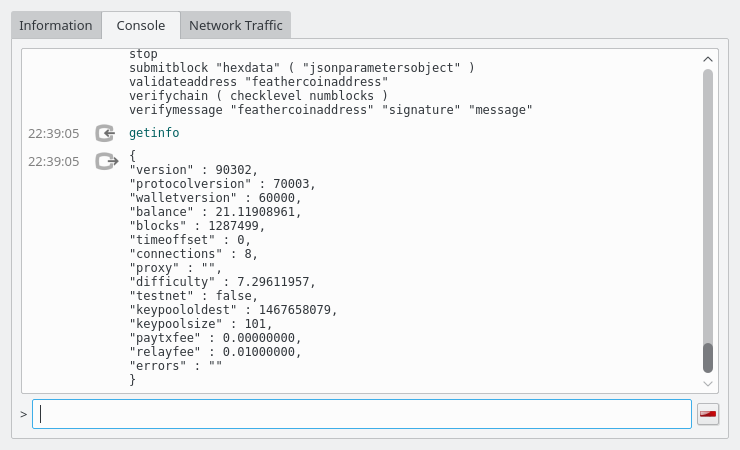
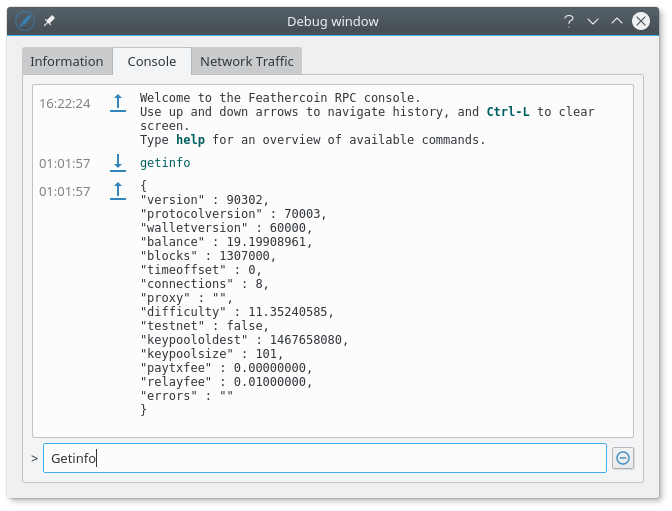
Update Debug Tabs screen shots and text.

Changed region(s): [[0.0, 0.0, 1.0, 0.9956]]

diff --git a/README.md b/README.md
@@ -5,7 +5,7 @@ Feathercoin Wallet guide aims to show how to use the features of the Feathercoin
 ### Feathercoin (FTC) Core Wallet : Main Features
 
 * Send and Receive Feathercoins to an Address, Stealth Address, URI text document or QRCode.  
-* View and filter the Transactions.    
+* View and filter the historical Transactions.    
 * Connect to a the FTC Peer to  Peer network and update the Blockchain information.  
 * Sign and Verify a message  given to prove ownership.  
 
